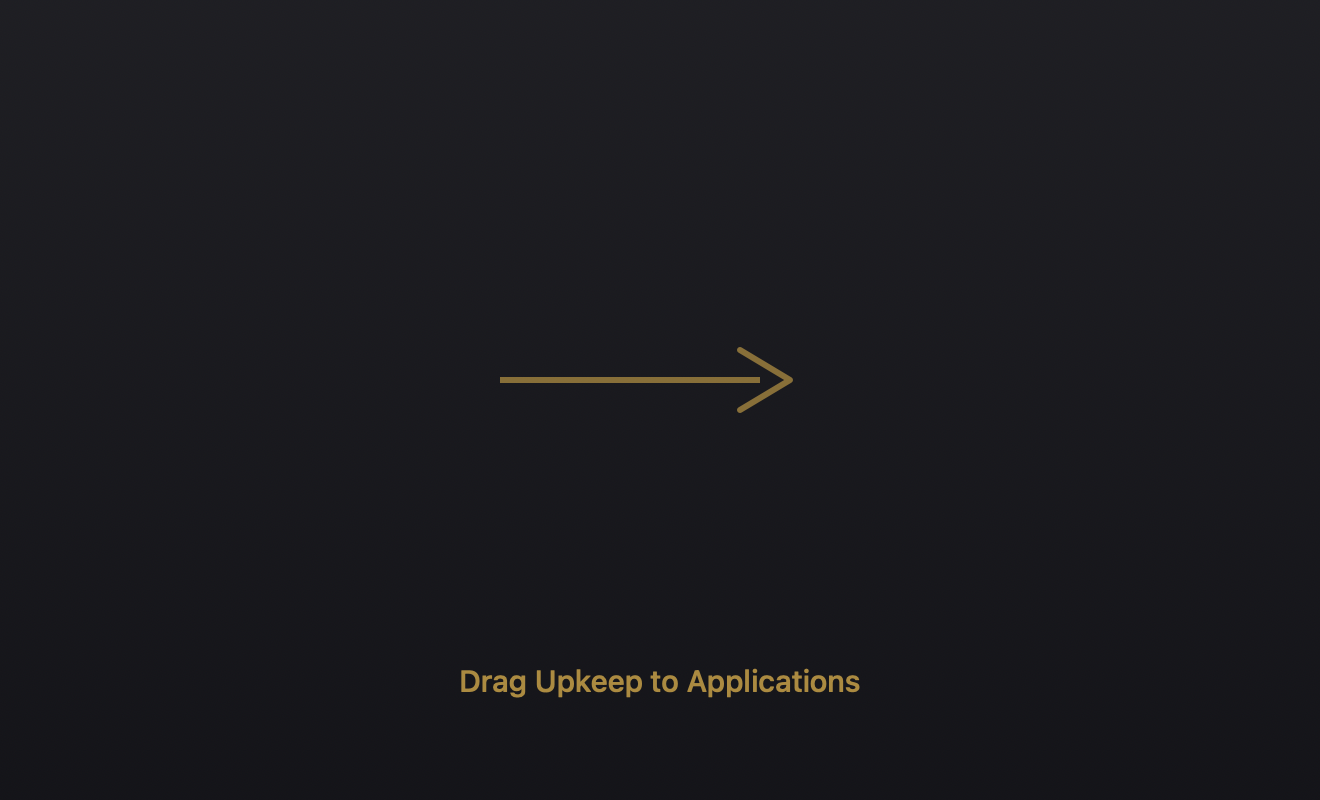
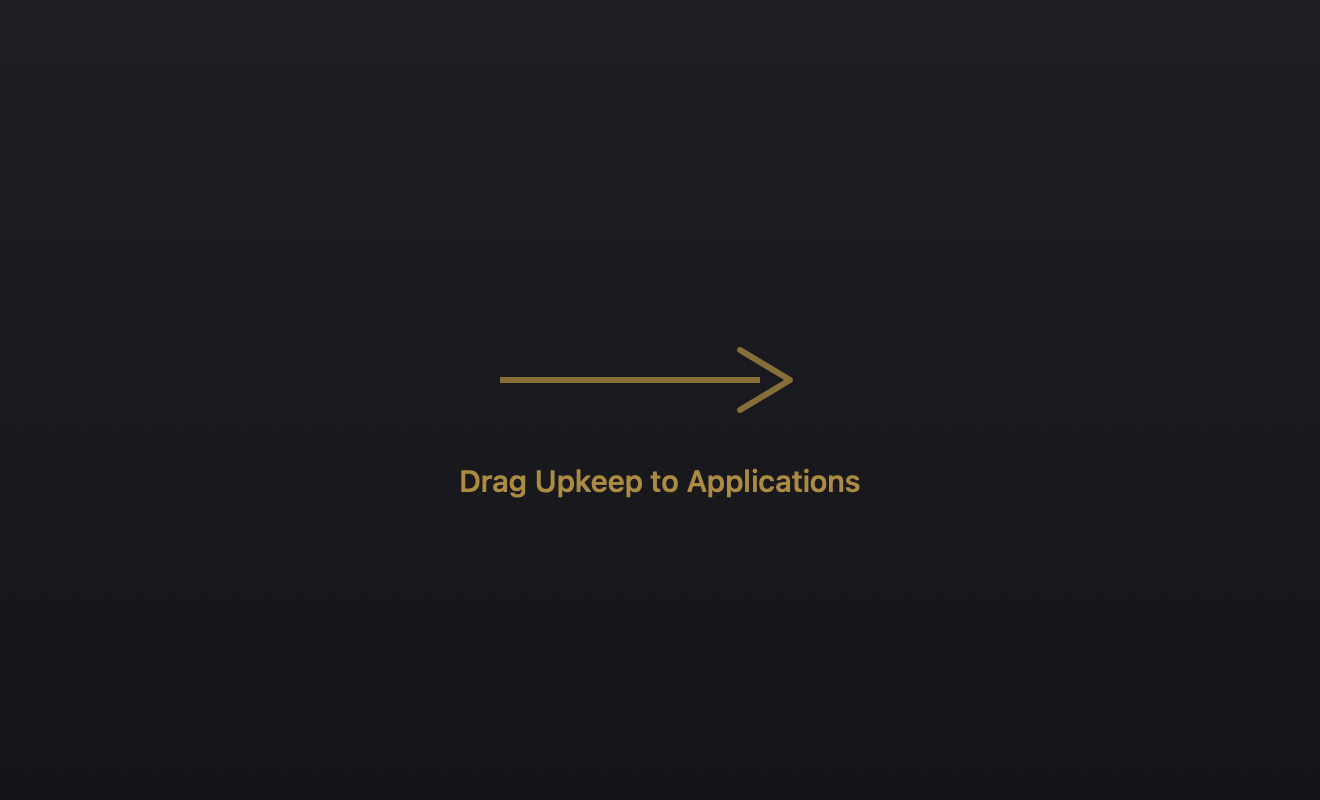
Fix DMG background text position — move instruction text closer to arrow

Changed region(s): [[0.3417, 0.8438, 0.6523, 0.875], [0.3417, 0.5938, 0.6523, 0.625]]

diff --git a/scripts/generate-dmg-bg.swift b/scripts/generate-dmg-bg.swift
@@ -50,7 +50,7 @@ let text = "Drag Upkeep to Applications" as NSString
 let textSize = text.size(withAttributes: textAttrs)
 let textRect = NSRect(
     x: (CGFloat(width) - textSize.width) / 2,
-    y: 50,
+    y: arrowY - 60,
     width: textSize.width,
     height: textSize.height
 )
